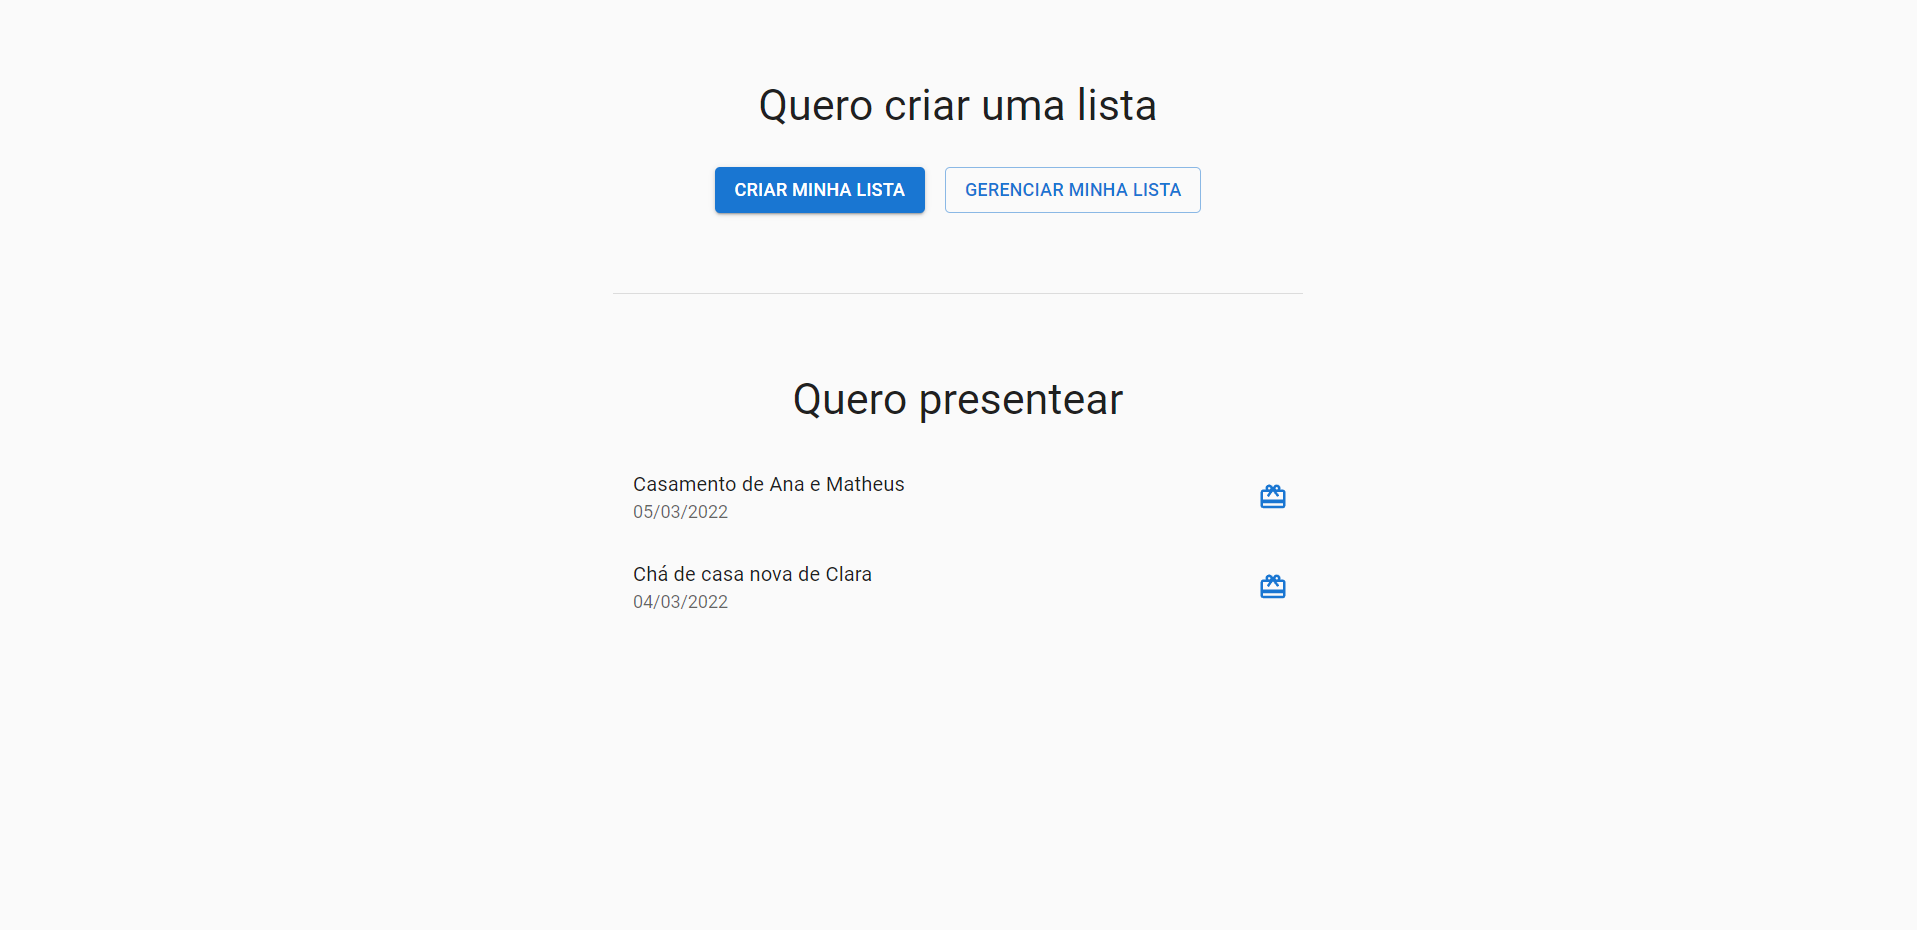
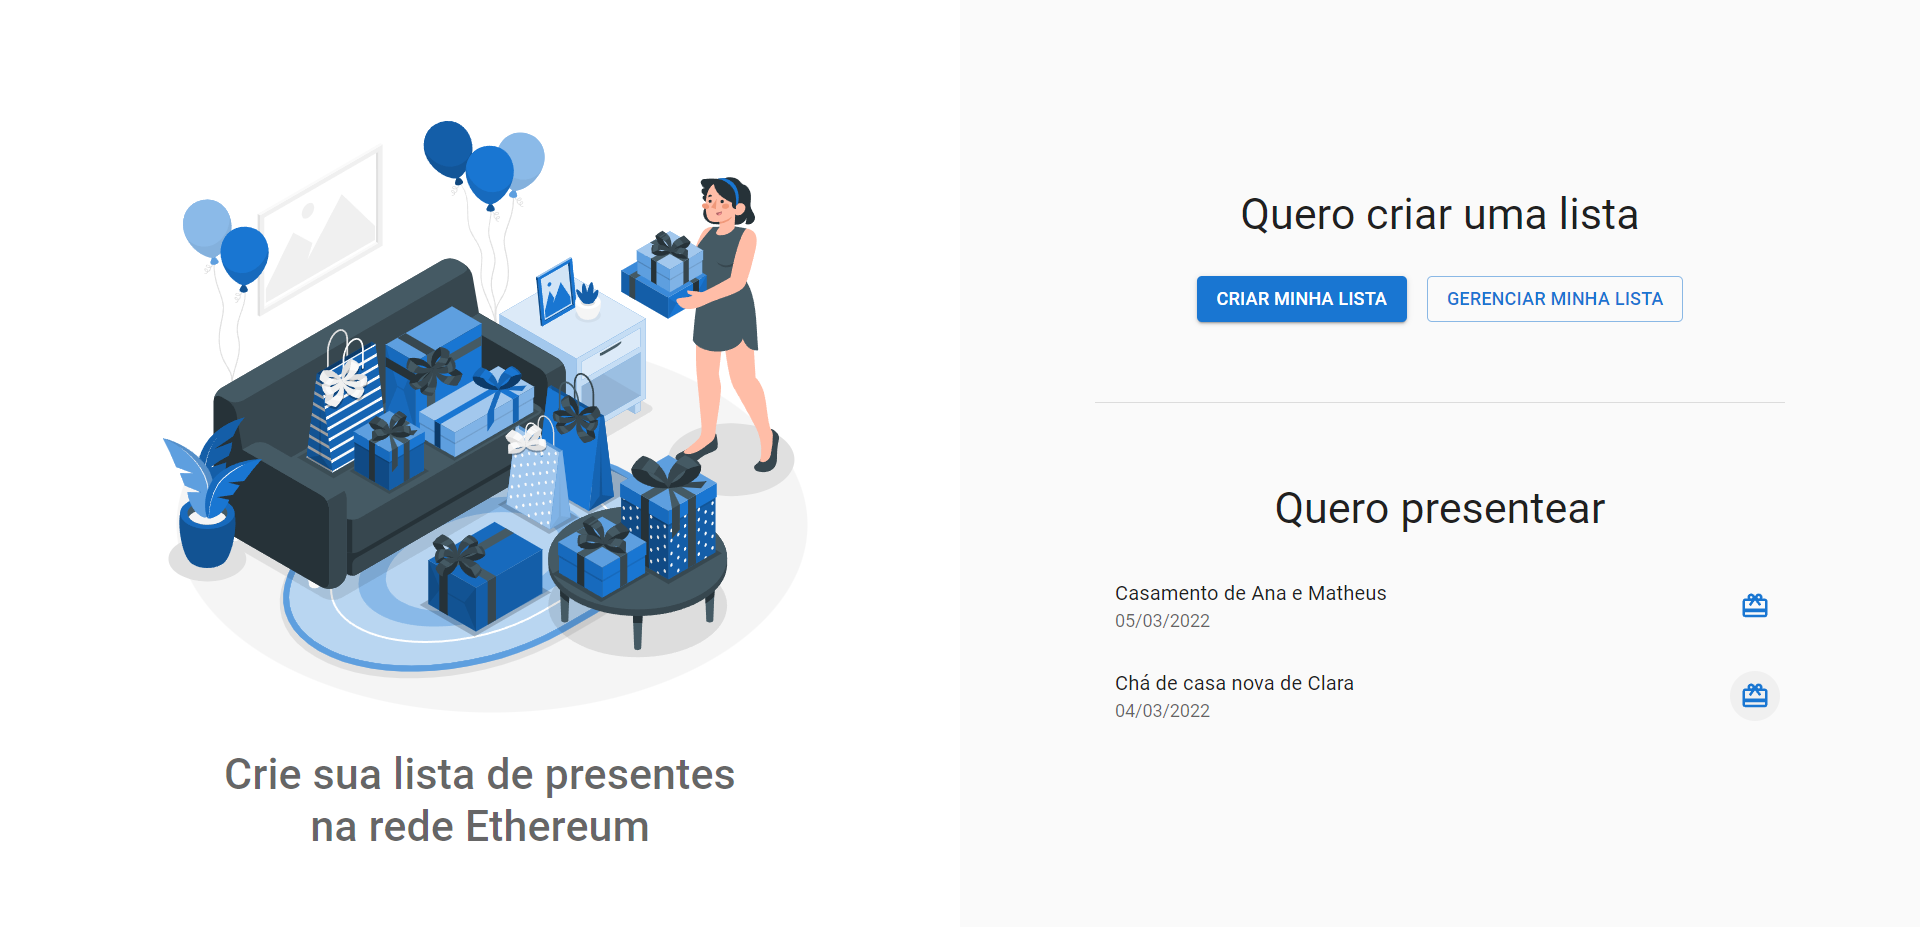
Adiciona ilustração na tela inicial

diff --git a/src/pages/Home/index.tsx b/src/pages/Home/index.tsx
@@ -15,7 +15,7 @@ import RedeemIcon from '@mui/icons-material/Redeem';
 import { CircularProgress } from '@mui/material';
 import { WalletContext } from '../../contexts/WalletContext';
 import { CreateListDialog } from './CreateListDialog';
-
+import giftsImg from '../../assets/Gifts-amico.svg';
 
 export type GiftType = {
   id: number;
@@ -111,83 +111,97 @@ const Home = () => {
   return (
     <>
       <CreateListDialog showDialog={showDialog} handleCloseDialog={() => setShowDialog(false)} />
-      <Box
-        sx={{
-          pt: 8,
-          pb: 6,
-        }}
-      >
-        <Container maxWidth="sm">
-          <Box sx={{ mb: 8 }}>
-            <Typography variant="h4" align="center" gutterBottom>
-              Quero criar uma lista
-            </Typography>
-            <Stack
-              sx={{ pt: 2 }}
-              direction="row"
-              spacing={2}
-              justifyContent="center"
+      <Grid container component="main" sx={{ height: '100vh' }}>
+        <Grid item xs={12} md={6} component="section" sx={{ bgcolor: 'background.paper', display: { xs: 'none', md: 'block'} }}>
+          <Stack justifyContent="center" alignItems="center" sx={{ height: '100%', pt: 8, pb: 2 }}>
+            <img src={giftsImg} alt="Ilustração de presentes" width="70%" />
+            
+            <Typography 
+              component="h1" 
+              variant="h4" 
+              align="center" 
+              sx={{ flexGrow: 1, fontWeight: 500, maxWidth: 450 }} 
+              color="text.secondary"
+              gutterBottom
             >
-              <Grid container spacing={2} justifyContent="center">
-                <Grid item>
-                  <Button variant="contained" color="primary" onClick={handleCreateList}>
-                    Criar minha lista
-                  </Button>
-                </Grid>
-                <Grid item>
-                  <Button variant="outlined" color="primary" onClick={handleManageList}>
-                    Gerenciar minha lista
-                  </Button>
-                </Grid>
-              </Grid>
-            </Stack>
-          </Box>
-
-          <Divider />
-
-          <Box sx={{ mt: 8 }}>
-            <Typography variant="h4" align="center" gutterBottom>
-              Quero presentear
+              Crie sua lista de presentes na rede Ethereum
             </Typography>
-            { isLoading 
-              ? (
-                <Stack alignItems="center">
-                  <CircularProgress />
-                </Stack>
-              ) : allLists.length > 0 
+          </Stack>
+          
+        </Grid>
+        <Grid item xs={12} md={6} component="section" style={{ paddingTop: '10%' }} sx={{ height: '100%', overflowY: 'auto' }}>
+          <Container maxWidth="sm">
+            <Box sx={{ mb: 8 }}>
+              <Typography component="h2" variant="h4" align="center" gutterBottom>
+                Quero criar uma lista
+              </Typography>
+              <Stack
+                sx={{ pt: 2 }}
+                direction="row"
+                spacing={2}
+                justifyContent="center"
+              >
+                <Grid container spacing={2} justifyContent="center">
+                  <Grid item>
+                    <Button variant="contained" color="primary" onClick={handleCreateList}>
+                      Criar minha lista
+                    </Button>
+                  </Grid>
+                  <Grid item>
+                    <Button variant="outlined" color="primary" onClick={handleManageList}>
+                      Gerenciar minha lista
+                    </Button>
+                  </Grid>
+                </Grid>
+              </Stack>
+            </Box>
+
+            <Divider />
+
+            <Box sx={{ mt: 8 }}>
+              <Typography component="h2" variant="h4" align="center" gutterBottom>
+                Quero presentear
+              </Typography>
+              { isLoading 
                 ? (
-                  <List>
-                    {
-                      allLists.map((giftList) => (
-                        <ListItem
-                          secondaryAction={
-                            <IconButton
-                              edge="end"
-                              aria-label="Acessar lista"
-                              onClick={() => handleAccessList(giftList.ownerAddress)}
-                            >
-                              <RedeemIcon color="primary" />
-                            </IconButton>
-                          }
-                          key={giftList.ownerAddress}
-                        >
-                          <ListItemText
-                            primary={`${giftList.eventName} de ${giftList.hostsName}`}
-                            secondary={giftList.eventDate}
-                          />
-                        </ListItem>
-                      ))
-                    }
-                  </List>
-                ) : (
-                  <Typography align="center" gutterBottom>
-                    Ainda não existem listas de presentes cadastradas.
-                  </Typography>
-                )
-            }
-          </Box>
-        </Container>
-      </Box>
+                  <Stack alignItems="center">
+                    <CircularProgress />
+                  </Stack>
+                ) : allLists.length > 0 
+                  ? (
+                    <List>
+                      {
+                        allLists.map((giftList) => (
+                          <ListItem
+                            secondaryAction={
+                              <IconButton
+                                edge="end"
+                                aria-label="Acessar lista"
+                                onClick={() => handleAccessList(giftList.ownerAddress)}
+                              >
+                                <RedeemIcon color="primary" />
+                              </IconButton>
+                            }
+                            key={giftList.ownerAddress}
+                          >
+                            <ListItemText
+                              primary={`${giftList.eventName} de ${giftList.hostsName}`}
+                              secondary={giftList.eventDate}
+                            />
+                          </ListItem>
+                        ))
+                      }
+                    </List>
+                  ) : (
+                    <Typography align="center" gutterBottom>
+                      Ainda não existem listas de presentes cadastradas.
+                    </Typography>
+                  )
+              }
+            </Box>
+          </Container>
+        </Grid>
+      </Grid> 
     </>
   );
 };
